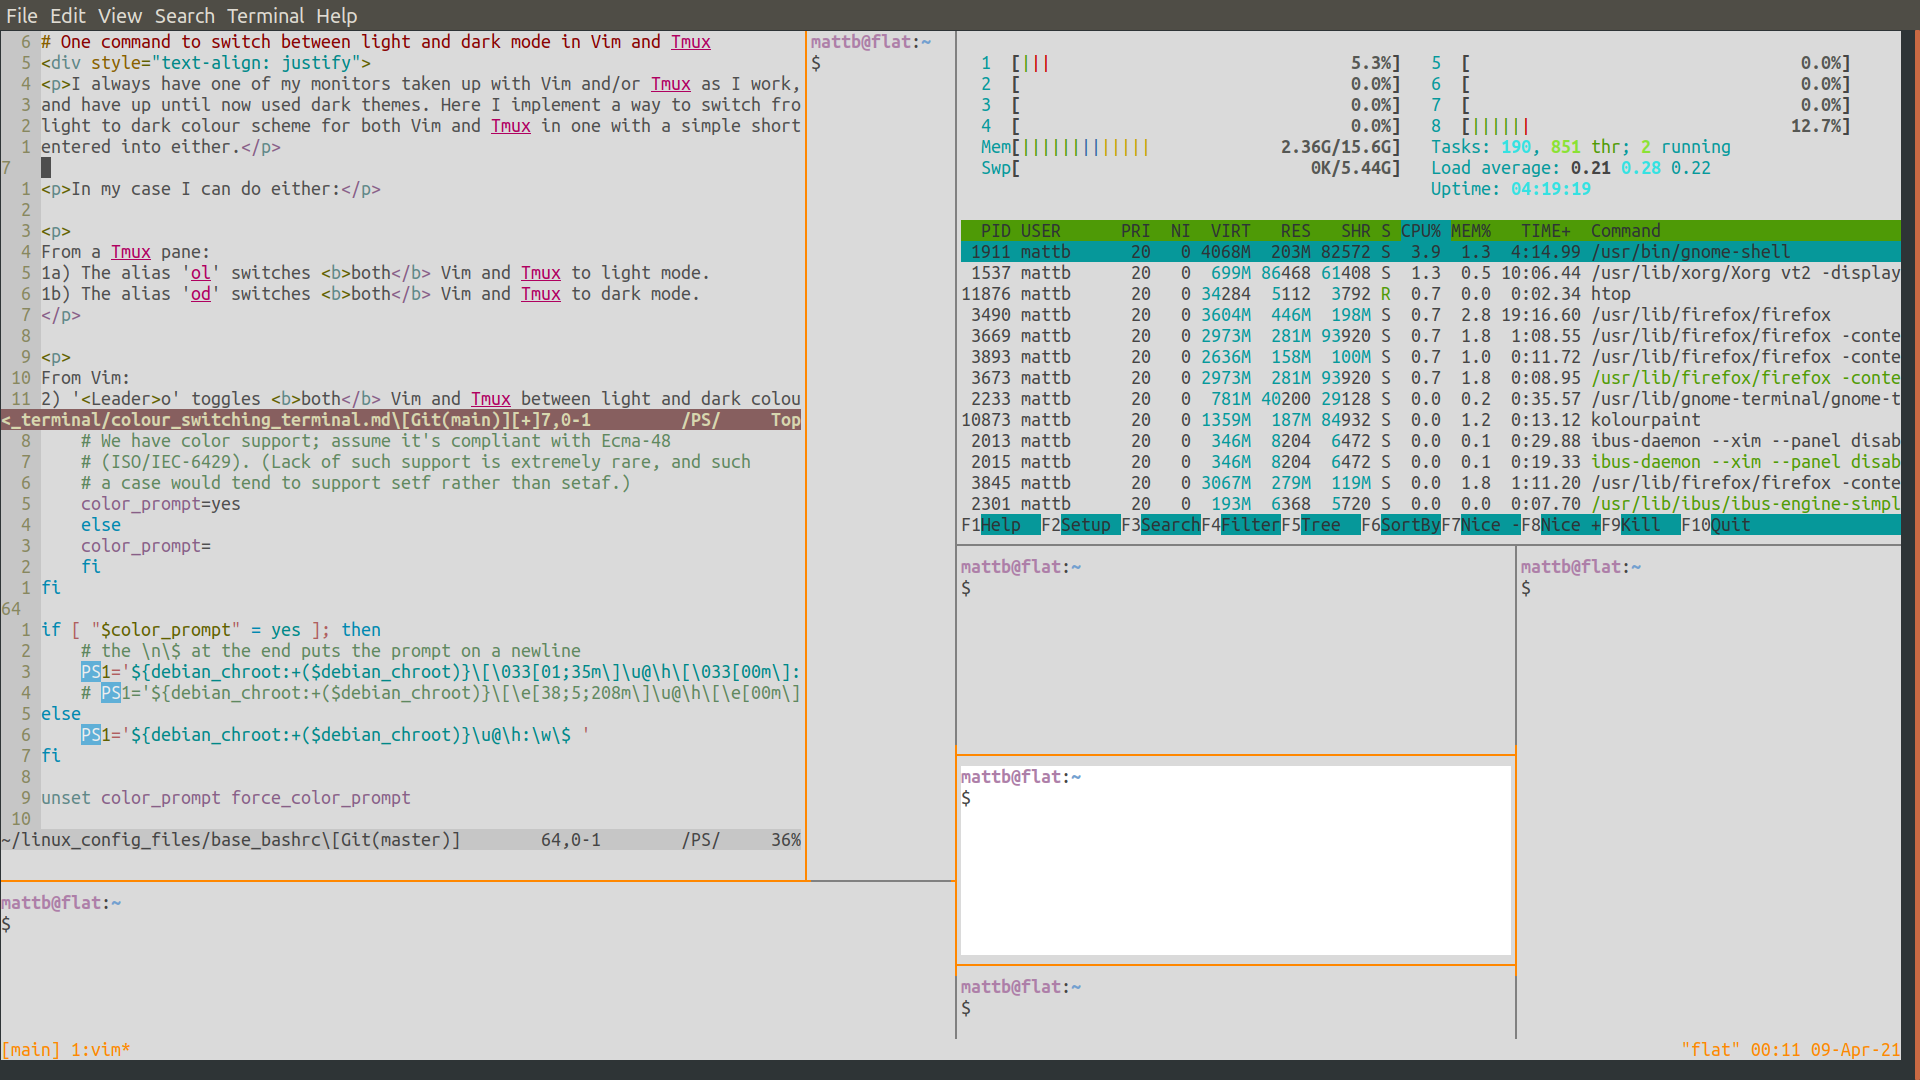
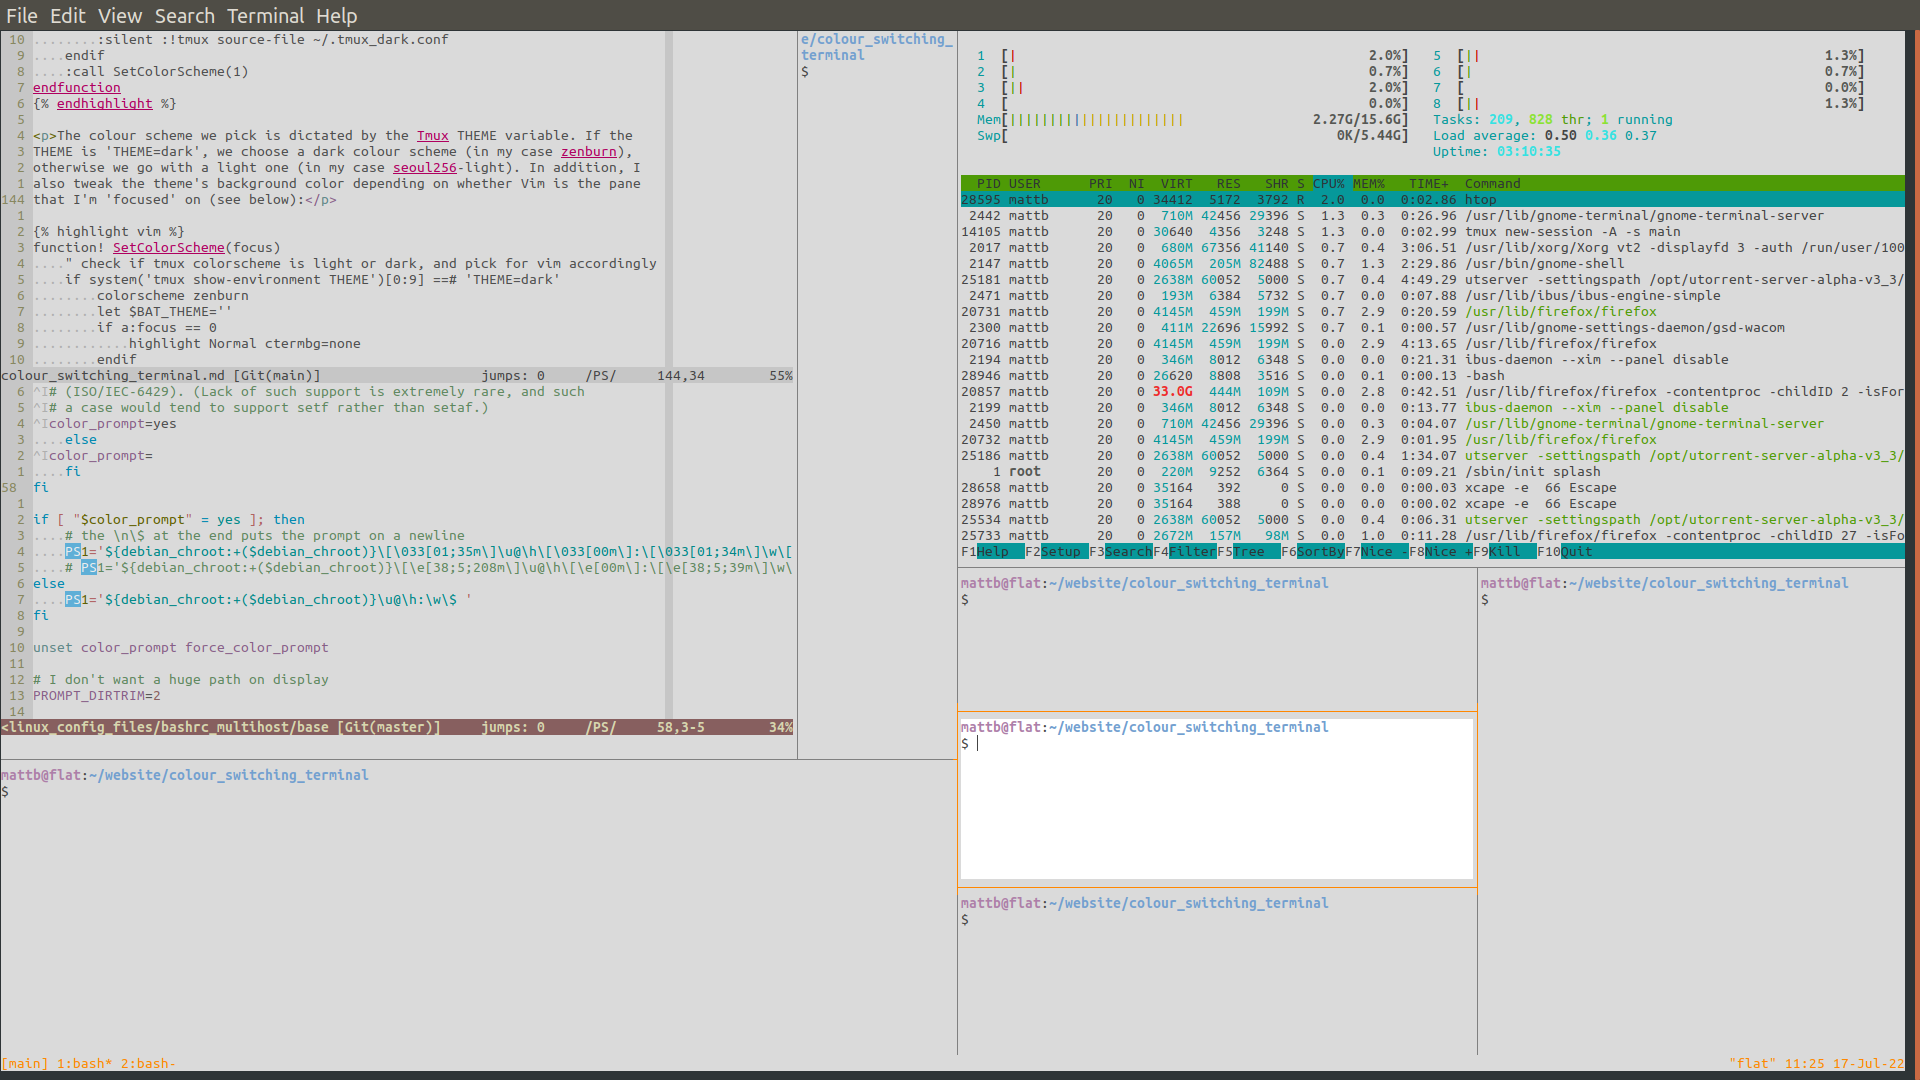
Update to include background tweak

diff --git a/colour_switching_terminal/colour_switching_terminal.md b/colour_switching_terminal/colour_switching_terminal.md
@@ -133,21 +133,32 @@ function! Toggle_Light_Dark_Colorscheme()
         :silent :!tmux set-environment THEME 'dark'
         :silent :!tmux source-file ~/.tmux_dark.conf
     endif
-    :call SetColorScheme()
+    :call SetColorScheme(1)
 endfunction
 {% endhighlight %}
 
 <p>The colour scheme we pick is dictated by the Tmux THEME variable. If the
 THEME is 'THEME=dark', we choose a dark colour scheme (in my case zenburn),
-otherwise we go with a light one (in my case seoul256-light):</p>
+otherwise we go with a light one (in my case seoul256-light). In addition, I
+also tweak the theme's background color depending on whether Vim is the pane
+that I'm 'focused' on (see below):</p>
 
 {% highlight vim %}
-function! SetColorScheme()
+function! SetColorScheme(focus)
     " check if tmux colorscheme is light or dark, and pick for vim accordingly
-    if system('tmux show-environment THEME')[0:9] == 'THEME=dark'
+    if system('tmux show-environment THEME')[0:9] ==# 'THEME=dark'
         colorscheme zenburn
+        let $BAT_THEME=''
+        if a:focus == 0
+            highlight Normal ctermbg=none
+        endif
     else
         colorscheme seoul256-light
+        let $BAT_THEME='Monokai Extended Light'
+        if a:focus == 1
+            highlight Normal ctermbg=white
+            highlight LineNr ctermbg=lightgrey
+        endif
     endif
 endfunction
 {% endhighlight %}
@@ -165,7 +176,7 @@ SetColorScheme function (note that this must come after the SetColorScheme
 function in your ~/.vimrc):</p>
 
 {% highlight vim %}
-call SetColorScheme()
+call SetColorScheme(1)
 {% endhighlight %}
 
 <p>We could stop there, but in the case where we have an instance of Vim
@@ -196,10 +207,12 @@ set -g focus-events on
 {% endhighlight %}
 
 <p>With one of the above options (I just have the line in my ~/.tmux.conf), we
-can use the FocusGained event in ~/.vimrc:</p>
+can use the FocusGained and FocusLost events in ~/.vimrc to make a call to our
+SetColorScheme function and update the colorscheme accordingly:</p>
 
 {% highlight vim %}
-autocmd FocusGained * :call SetColorScheme()
+autocmd FocusGained * :call SetColorScheme(1)
+autocmd FocusLost * :call SetColorScheme(0)
 {% endhighlight %}
 
 <p>This will mean that as soon as you return to vim from the Tmux pane, Vim's
